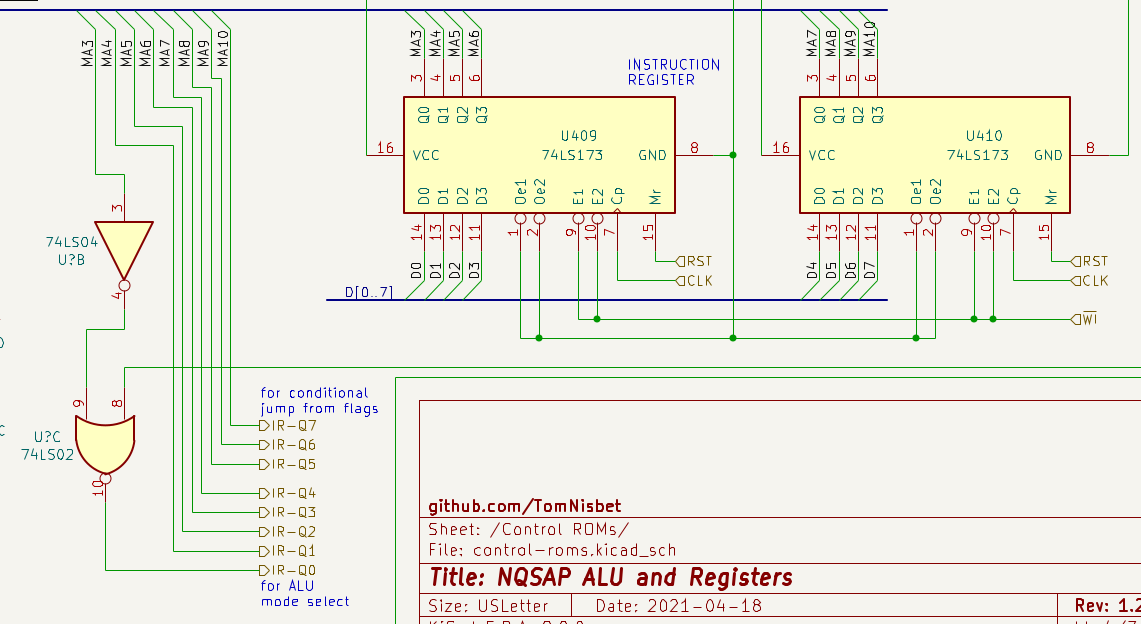
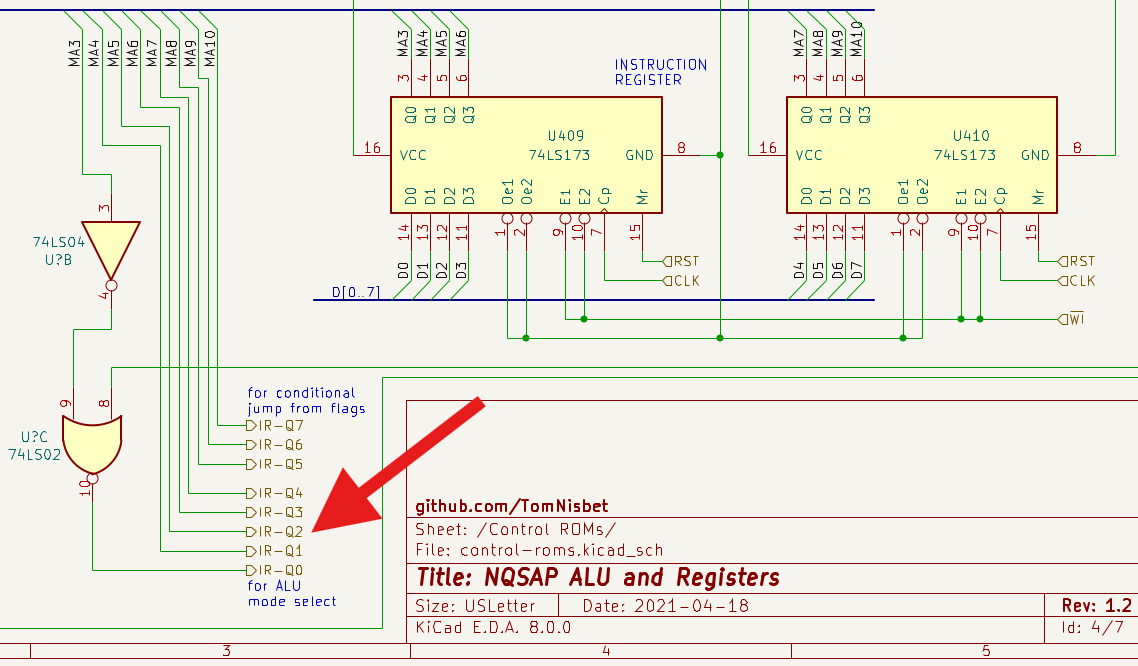
ALU

Changed region(s): [[0.0, 0.0, 1.0, 1.0], [0.0615, 0.4872, 0.0923, 0.5176], [0.0615, 0.2436, 0.0923, 0.274]]

diff --git a/docs/_docs/50-alu.md b/docs/_docs/50-alu.md
@@ -104,7 +104,7 @@ Gli altri 3 bit di output dell'IR erano stati scelti arbitrariamente, pur se con
 
 ![Alt text](../../assets/alu/50-alu-cl-ir-out.png)
 
-*Output dell'Instruction Register verso il modulo ALU.*
+*Output dell'Instruction Register verso il modulo ALU con evidenza dei 5 bit di selezione della funzione / operazione dei '181.*
 
 Attivando questa istruzione, il risultato esposto in output dall'ALU sarebbe stato esattamente A Plus B, proprio come indicato nella decima riga / colonna Cn = HI della tabella "Funzioni logiche e operazioni aritmetiche del 74LS181." estratta dal datasheet; se avessimo invece avuto un Carry in ingresso, il risultato esposto sarebbe stato A + B + 1, come indicato nella decima riga / colonna Cn = LO. La somma (almeno in teoria) funzionava e iniziavo anche a far luce sul legame tra le due colonne Cn = LO / Cn = HI: il risultato in output era sempre lo stesso e variava solo in conseguenza del fatto che in ingresso ci fosse un Carry o meno.
 
